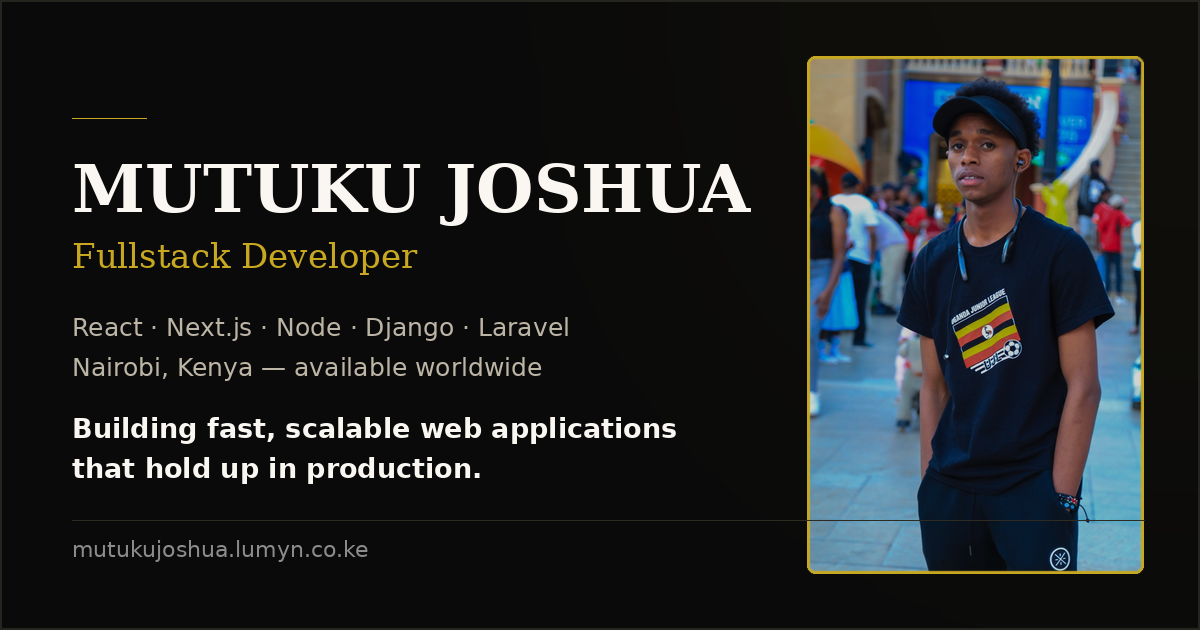
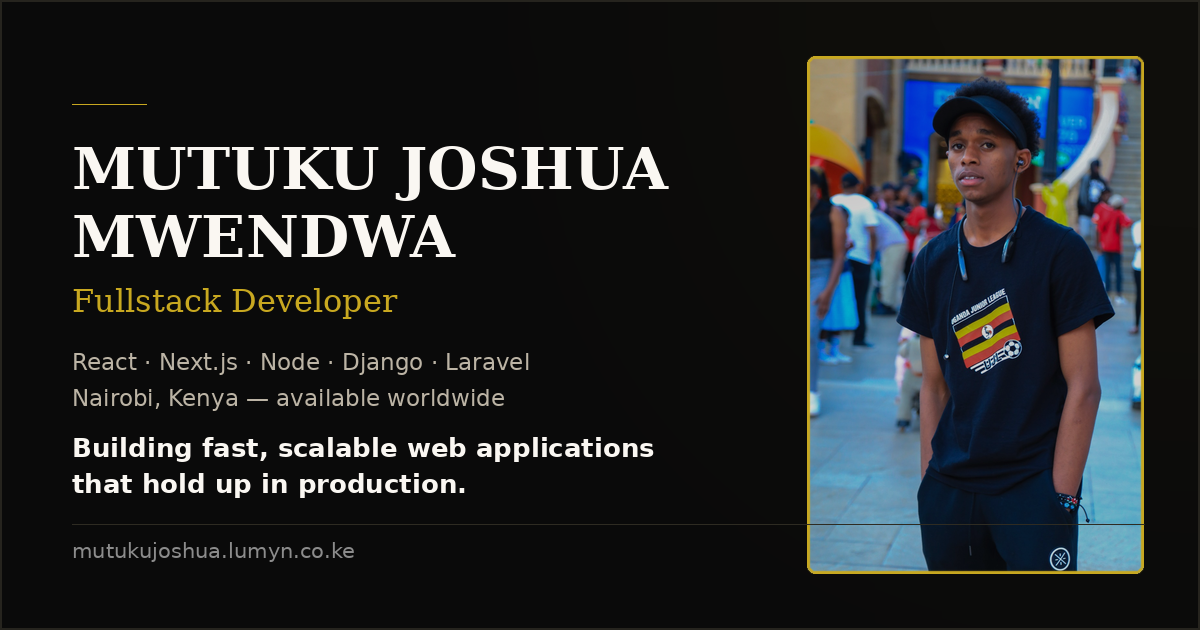
CONSOLIDATE OWNER NAME TO "MUTUKU JOSHUA MWENDWA"
Google had the identity split across two names: the site presented
"Mutuku Joshua" while LinkedIn, GitHub and the resume headline all
said "Joshua Mwendwa". That split makes it impossible for Google to
treat the profiles as one entity, so none of the authority
accumulates on either spelling.

Use the full name everywhere so both previous spellings match:
- SITE_NAME and PERSON.name in lib/site-config.ts, which drive the
  title template, og:siteName and the Person schema
- All page titles and descriptions
- Both hero headings, footer, /about and /resume body copy, alt
  text, and the legal pages
- keywords arrays, now also carrying "Joshua Mwendwa" and
  "Mutuku Joshua" as secondary variants
- The five transactional email templates

The homepage hardcoded its title string in four places, which is
how the two names drifted apart; it now reads DEFAULT_TITLE.

Regenerate the OG image so the card carries the full name.

Changed region(s): [[0.0617, 0.2111, 0.6167, 0.7841], [0.0617, 0.8143, 0.925, 0.9048]]

diff --git a/app/api/contact/route.ts b/app/api/contact/route.ts
@@ -98,7 +98,7 @@ export async function POST(request: NextRequest) {
     const emailHtml = `
       <div style="font-family: Arial, sans-serif; max-width: 600px; margin: 0 auto; background: #0a0a0a; border: 0.5px solid rgba(184, 150, 12, 0.2);">
         <div style="background: #0f0f0f; border-bottom: 0.5px solid rgba(184, 150, 12, 0.2); padding: 2rem; text-align: center;">
-          <div style="font-family: 'Cormorant Garamond', serif; font-size: 1.75rem; font-weight: 400; color: #c8a820; letter-spacing: 0.1em; margin-bottom: 0.5rem;">MUTUKU JOSHUA</div>
+          <div style="font-family: 'Cormorant Garamond', serif; font-size: 1.75rem; font-weight: 400; color: #c8a820; letter-spacing: 0.1em; margin-bottom: 0.5rem;">MUTUKU JOSHUA MWENDWA</div>
           <div style="font-size: 0.75rem; color: rgba(240, 232, 212, 0.5); letter-spacing: 0.15em; text-transform: uppercase;">Fullstack Developer</div>
         </div>
 
@@ -161,7 +161,7 @@ export async function POST(request: NextRequest) {
         </div>
 
         <div style="background: #0f0f0f; border-top: 0.5px solid rgba(184, 150, 12, 0.2); padding: 1.5rem; text-align: center;">
-          <div style="font-family: 'Cormorant Garamond', serif; font-size: 1.125rem; font-weight: 400; color: #c8a820; letter-spacing: 0.1em; margin-bottom: 0.25rem;">Mutuku Joshua</div>
+          <div style="font-family: 'Cormorant Garamond', serif; font-size: 1.125rem; font-weight: 400; color: #c8a820; letter-spacing: 0.1em; margin-bottom: 0.25rem;">Mutuku Joshua Mwendwa</div>
           <div style="color: rgba(240, 232, 212, 0.4); font-size: 0.75rem; letter-spacing: 0.1em; text-transform: uppercase;">Professional Fullstack Development Services · Nairobi, Kenya</div>
         </div>
       </div>
@@ -178,7 +178,7 @@ export async function POST(request: NextRequest) {
     const confirmationHtml = `
       <div style="font-family: Arial, sans-serif; max-width: 600px; margin: 0 auto; background: #0a0a0a; border: 0.5px solid rgba(184, 150, 12, 0.2);">
         <div style="background: #0f0f0f; border-bottom: 0.5px solid rgba(184, 150, 12, 0.2); padding: 2rem; text-align: center;">
-          <div style="font-family: 'Cormorant Garamond', serif; font-size: 1.75rem; font-weight: 400; color: #c8a820; letter-spacing: 0.1em; margin-bottom: 0.5rem;">MUTUKU JOSHUA</div>
+          <div style="font-family: 'Cormorant Garamond', serif; font-size: 1.75rem; font-weight: 400; color: #c8a820; letter-spacing: 0.1em; margin-bottom: 0.5rem;">MUTUKU JOSHUA MWENDWA</div>
           <div style="font-size: 0.75rem; color: rgba(240, 232, 212, 0.5); letter-spacing: 0.15em; text-transform: uppercase; margin-bottom: 1rem;">Fullstack Developer</div>
           <div style="font-size: 0.875rem; color: #5dcaa5; letter-spacing: 0.05em;">✓ Contact Request Received</div>
         </div>
@@ -213,14 +213,14 @@ export async function POST(request: NextRequest) {
             
             <p style="color: rgba(240, 232, 212, 0.7); font-size: 0.9375rem; line-height: 1.7; margin: 1.5rem 0 0 0;">
               Best regards,<br>
-              <strong style="color: #faf7f2;">Mutuku Joshua</strong><br>
+              <strong style="color: #faf7f2;">Mutuku Joshua Mwendwa</strong><br>
               <span style="color: rgba(240, 232, 212, 0.4); font-size: 0.8125rem;">Fullstack Developer</span>
             </p>
           </div>
         </div>
         
         <div style="background: #0f0f0f; border-top: 0.5px solid rgba(184, 150, 12, 0.2); padding: 1.5rem; text-align: center;">
-          <div style="font-family: 'Cormorant Garamond', serif; font-size: 1.125rem; font-weight: 400; color: #c8a820; letter-spacing: 0.1em; margin-bottom: 0.5rem;">Mutuku Joshua</div>
+          <div style="font-family: 'Cormorant Garamond', serif; font-size: 1.125rem; font-weight: 400; color: #c8a820; letter-spacing: 0.1em; margin-bottom: 0.5rem;">Mutuku Joshua Mwendwa</div>
           <div style="color: rgba(240, 232, 212, 0.4); font-size: 0.75rem; letter-spacing: 0.05em;">📧 officialjoshua@lumyn.co.ke · 📞 +254 794 773 452 · 📍 Nairobi, Kenya</div>
         </div>
       </div>
@@ -229,7 +229,7 @@ export async function POST(request: NextRequest) {
     await transporter.sendMail({
       from: process.env.SMTP_FROM || process.env.SMTP_USER,
       to: email,
-      subject: "Thank you for contacting Mutuku Joshua - Fullstack Developer",
+      subject: "Thank you for contacting Mutuku Joshua Mwendwa - Fullstack Developer",
       html: confirmationHtml,
     })
 

diff --git a/app/terms-of-use/page.tsx b/app/terms-of-use/page.tsx
@@ -3,7 +3,7 @@ import { OG_IMAGE, SITE_NAME, SITE_URL } from "@/lib/site-config"
 
 export const metadata: Metadata = {
   title: "Terms of Use",
-  description: "Terms of Use for Mutuku Joshua portfolio website and development services.",
+  description: "Terms of Use for Mutuku Joshua Mwendwa portfolio website and development services.",
   alternates: { canonical: "/terms-of-use" },
   openGraph: {
     type: "website",
@@ -11,7 +11,7 @@ export const metadata: Metadata = {
     siteName: SITE_NAME,
     title: `Terms of Use | ${SITE_NAME}`,
     description:
-      "Terms of Use for Mutuku Joshua portfolio website and development services.",
+      "Terms of Use for Mutuku Joshua Mwendwa portfolio website and development services.",
     images: [
       {
         url: OG_IMAGE.url,
@@ -38,7 +38,7 @@ export default function TermsOfUsePage() {
             <section className="mb-8">
               <h2 className="text-2xl font-semibold text-gray-900 mb-4">1. Acceptance of Terms</h2>
               <p className="text-gray-700 mb-4">
-                By accessing and using Mutuku Joshua&apos;s portfolio website ("Website"), you accept and agree to be bound
+                By accessing and using Mutuku Joshua Mwendwa&apos;s portfolio website ("Website"), you accept and agree to be bound
                 by these terms and conditions. If you do not agree to abide by these terms, please do not use this website.
               </p>
             </section>
@@ -118,7 +118,7 @@ export default function TermsOfUsePage() {
               <h2 className="text-2xl font-semibold text-gray-900 mb-4">7. Intellectual Property</h2>
               <p className="text-gray-700 mb-4">
                 All content on this website, including code snippets, designs, graphics, project demonstrations,
-                and written content, are the intellectual property of Mutuku Joshua unless otherwise stated.
+                and written content, are the intellectual property of Mutuku Joshua Mwendwa unless otherwise stated.
               </p>
               <p className="text-gray-700 mb-4">
                 Portfolio projects may include work done for clients. Any client-specific code or information is 
@@ -130,7 +130,7 @@ export default function TermsOfUsePage() {
             <section className="mb-8">
               <h2 className="text-2xl font-semibold text-gray-900 mb-4">8. Limitation of Liability</h2>
               <p className="text-gray-700 mb-4">
-                In no event shall Mutuku Joshua be liable for any damages (including, without limitation, damages
+                In no event shall Mutuku Joshua Mwendwa be liable for any damages (including, without limitation, damages
                 for loss of data, profit, or business interruption) arising out of the use or inability to use
                 the materials on this website or related to any services showcased here.
               </p>
@@ -183,7 +183,7 @@ export default function TermsOfUsePage() {
               </p>
               <div className="bg-gray-50 p-4 rounded-lg">
                 <p className="text-gray-700">
-                  <strong>Mutuku Joshua</strong>
+                  <strong>Mutuku Joshua Mwendwa</strong>
                 </p>
                 <p className="text-gray-700">Email: officialjoshua@lumyn.co.ke</p>
                 <p className="text-gray-700">Phone: +254 794 773 452</p>

diff --git a/app/api/newsletter/route.ts b/app/api/newsletter/route.ts
@@ -53,7 +53,7 @@ export async function POST(request: NextRequest) {
     const confirmationHtml = `
       <div style="font-family: Arial, sans-serif; max-width: 600px; margin: 0 auto; background: #0a0a0a; border: 0.5px solid rgba(184, 150, 12, 0.2);">
         <div style="background: #0f0f0f; border-bottom: 0.5px solid rgba(184, 150, 12, 0.2); padding: 2rem; text-align: center;">
-          <div style="font-family: 'Cormorant Garamond', serif; font-size: 1.75rem; font-weight: 400; color: #c8a820; letter-spacing: 0.1em; margin-bottom: 0.5rem;">MUTUKU JOSHUA</div>
+          <div style="font-family: 'Cormorant Garamond', serif; font-size: 1.75rem; font-weight: 400; color: #c8a820; letter-spacing: 0.1em; margin-bottom: 0.5rem;">MUTUKU JOSHUA MWENDWA</div>
           <div style="font-size: 0.75rem; color: rgba(240, 232, 212, 0.5); letter-spacing: 0.15em; text-transform: uppercase; margin-bottom: 1rem;">Fullstack Developer</div>
           <div style="font-size: 0.875rem; color: #5dcaa5; letter-spacing: 0.05em;">✓ Welcome to the Newsletter</div>
         </div>
@@ -84,7 +84,7 @@ export async function POST(request: NextRequest) {
         </div>
         
         <div style="background: #0f0f0f; border-top: 0.5px solid rgba(184, 150, 12, 0.2); padding: 1.5rem; text-align: center;">
-          <div style="font-family: 'Cormorant Garamond', serif; font-size: 1.125rem; font-weight: 400; color: #c8a820; letter-spacing: 0.1em; margin-bottom: 0.5rem;">Mutuku Joshua</div>
+          <div style="font-family: 'Cormorant Garamond', serif; font-size: 1.125rem; font-weight: 400; color: #c8a820; letter-spacing: 0.1em; margin-bottom: 0.5rem;">Mutuku Joshua Mwendwa</div>
           <div style="color: rgba(240, 232, 212, 0.4); font-size: 0.75rem; letter-spacing: 0.05em;">📧 officialjoshua@lumyn.co.ke · 📞 +254 794 773 452 · 📍 Nairobi, Kenya</div>
         </div>
       </div>
@@ -93,7 +93,7 @@ export async function POST(request: NextRequest) {
     await transporter.sendMail({
       from: process.env.SMTP_FROM || process.env.SMTP_USER,
       to: email,
-      subject: "Welcome to Mutuku Joshua's Newsletter",
+      subject: "Welcome to Mutuku Joshua Mwendwa's Newsletter",
       html: confirmationHtml,
     })
 

diff --git a/app/privacy-policy/page.tsx b/app/privacy-policy/page.tsx
@@ -3,7 +3,7 @@ import { OG_IMAGE, SITE_NAME, SITE_URL } from "@/lib/site-config"
 
 export const metadata: Metadata = {
   title: "Privacy Policy",
-  description: "Privacy Policy for Mutuku Joshua - How I collect, use, and protect your personal information.",
+  description: "Privacy Policy for Mutuku Joshua Mwendwa - How I collect, use, and protect your personal information.",
   alternates: { canonical: "/privacy-policy" },
   openGraph: {
     type: "website",
@@ -11,7 +11,7 @@ export const metadata: Metadata = {
     siteName: SITE_NAME,
     title: `Privacy Policy | ${SITE_NAME}`,
     description:
-      "Privacy Policy for Mutuku Joshua - How I collect, use, and protect your personal information.",
+      "Privacy Policy for Mutuku Joshua Mwendwa - How I collect, use, and protect your personal information.",
     images: [
       {
         url: OG_IMAGE.url,
@@ -38,7 +38,7 @@ export default function PrivacyPolicyPage() {
             <section className="mb-8">
               <h2 className="text-2xl font-semibold text-gray-900 mb-4">1. Introduction</h2>
               <p className="text-gray-700 mb-4">
-                Mutuku Joshua ("I," "my," or "me") is committed to protecting your privacy. This Privacy
+                Mutuku Joshua Mwendwa ("I," "my," or "me") is committed to protecting your privacy. This Privacy
                 Policy explains how I collect, use, disclose, and safeguard your information when you visit my portfolio
                 website or use my development services.
               </p>
@@ -154,7 +154,7 @@ export default function PrivacyPolicyPage() {
               </p>
               <div className="bg-gray-50 p-4 rounded-lg">
                 <p className="text-gray-700">
-                  <strong>Mutuku Joshua</strong>
+                  <strong>Mutuku Joshua Mwendwa</strong>
                 </p>
                 <p className="text-gray-700">Email: officialjoshua@lumyn.co.ke</p>
                 <p className="text-gray-700">Phone: +254 794 773 452</p>

diff --git a/app/api/admin/blog/[id]/route.ts b/app/api/admin/blog/[id]/route.ts
@@ -29,7 +29,7 @@ async function sendBlogNotification(post: { title: string; slug: string; summary
   const html = `
     <div style="font-family: Arial, sans-serif; max-width: 600px; margin: 0 auto; background: #0a0a0a; border: 0.5px solid rgba(184, 150, 12, 0.2);">
       <div style="background: #0f0f0f; border-bottom: 0.5px solid rgba(184, 150, 12, 0.2); padding: 2rem; text-align: center;">
-        <div style="font-family: 'Cormorant Garamond', serif; font-size: 1.75rem; font-weight: 400; color: #c8a820; letter-spacing: 0.1em; margin-bottom: 0.5rem;">MUTUKU JOSHUA</div>
+        <div style="font-family: 'Cormorant Garamond', serif; font-size: 1.75rem; font-weight: 400; color: #c8a820; letter-spacing: 0.1em; margin-bottom: 0.5rem;">MUTUKU JOSHUA MWENDWA</div>
         <div style="font-size: 0.75rem; color: rgba(240, 232, 212, 0.5); letter-spacing: 0.15em; text-transform: uppercase; margin-bottom: 1rem;">Fullstack Developer</div>
         <div style="font-size: 0.875rem; color: #5dcaa5; letter-spacing: 0.05em;">📝 New Blog Post Published</div>
       </div>
@@ -55,7 +55,7 @@ async function sendBlogNotification(post: { title: string; slug: string; summary
       </div>
       
       <div style="background: #0f0f0f; border-top: 0.5px solid rgba(184, 150, 12, 0.2); padding: 1.5rem; text-align: center;">
-        <div style="font-family: 'Cormorant Garamond', serif; font-size: 1.125rem; font-weight: 400; color: #c8a820; letter-spacing: 0.1em; margin-bottom: 0.5rem;">Mutuku Joshua</div>
+        <div style="font-family: 'Cormorant Garamond', serif; font-size: 1.125rem; font-weight: 400; color: #c8a820; letter-spacing: 0.1em; margin-bottom: 0.5rem;">Mutuku Joshua Mwendwa</div>
         <div style="color: rgba(240, 232, 212, 0.4); font-size: 0.75rem; letter-spacing: 0.05em;">
           📧 officialjoshua@lumyn.co.ke · 📞 +254 794 773 452 · 📍 Nairobi, Kenya
         </div>

diff --git a/app/api/admin/blog/route.ts b/app/api/admin/blog/route.ts
@@ -29,7 +29,7 @@ async function sendBlogNotification(post: { title: string; slug: string; summary
   const html = `
     <div style="font-family: Arial, sans-serif; max-width: 600px; margin: 0 auto; background: #0a0a0a; border: 0.5px solid rgba(184, 150, 12, 0.2);">
       <div style="background: #0f0f0f; border-bottom: 0.5px solid rgba(184, 150, 12, 0.2); padding: 2rem; text-align: center;">
-        <div style="font-family: 'Cormorant Garamond', serif; font-size: 1.75rem; font-weight: 400; color: #c8a820; letter-spacing: 0.1em; margin-bottom: 0.5rem;">MUTUKU JOSHUA</div>
+        <div style="font-family: 'Cormorant Garamond', serif; font-size: 1.75rem; font-weight: 400; color: #c8a820; letter-spacing: 0.1em; margin-bottom: 0.5rem;">MUTUKU JOSHUA MWENDWA</div>
         <div style="font-size: 0.75rem; color: rgba(240, 232, 212, 0.5); letter-spacing: 0.15em; text-transform: uppercase; margin-bottom: 1rem;">Fullstack Developer</div>
         <div style="font-size: 0.875rem; color: #5dcaa5; letter-spacing: 0.05em;">📝 New Blog Post Published</div>
       </div>
@@ -55,7 +55,7 @@ async function sendBlogNotification(post: { title: string; slug: string; summary
       </div>
       
       <div style="background: #0f0f0f; border-top: 0.5px solid rgba(184, 150, 12, 0.2); padding: 1.5rem; text-align: center;">
-        <div style="font-family: 'Cormorant Garamond', serif; font-size: 1.125rem; font-weight: 400; color: #c8a820; letter-spacing: 0.1em; margin-bottom: 0.5rem;">Mutuku Joshua</div>
+        <div style="font-family: 'Cormorant Garamond', serif; font-size: 1.125rem; font-weight: 400; color: #c8a820; letter-spacing: 0.1em; margin-bottom: 0.5rem;">Mutuku Joshua Mwendwa</div>
         <div style="color: rgba(240, 232, 212, 0.4); font-size: 0.75rem; letter-spacing: 0.05em;">
           📧 officialjoshua@lumyn.co.ke · 📞 +254 794 773 452 · 📍 Nairobi, Kenya
         </div>

diff --git a/app/api/admin/newsletter/route.ts b/app/api/admin/newsletter/route.ts
@@ -28,7 +28,7 @@ async function sendBlogNotification(post: { title: string; slug: string; summary
   const html = `
     <div style="font-family: Arial, sans-serif; max-width: 600px; margin: 0 auto; background: #0a0a0a; border: 0.5px solid rgba(184, 150, 12, 0.2);">
       <div style="background: #0f0f0f; border-bottom: 0.5px solid rgba(184, 150, 12, 0.2); padding: 2rem; text-align: center;">
-        <div style="font-family: 'Cormorant Garamond', serif; font-size: 1.75rem; font-weight: 400; color: #c8a820; letter-spacing: 0.1em; margin-bottom: 0.5rem;">MUTUKU JOSHUA</div>
+        <div style="font-family: 'Cormorant Garamond', serif; font-size: 1.75rem; font-weight: 400; color: #c8a820; letter-spacing: 0.1em; margin-bottom: 0.5rem;">MUTUKU JOSHUA MWENDWA</div>
         <div style="font-size: 0.75rem; color: rgba(240, 232, 212, 0.5); letter-spacing: 0.15em; text-transform: uppercase; margin-bottom: 1rem;">Fullstack Developer</div>
         <div style="font-size: 0.875rem; color: #5dcaa5; letter-spacing: 0.05em;">📝 New Blog Post Published</div>
       </div>
@@ -54,7 +54,7 @@ async function sendBlogNotification(post: { title: string; slug: string; summary
       </div>
       
       <div style="background: #0f0f0f; border-top: 0.5px solid rgba(184, 150, 12, 0.2); padding: 1.5rem; text-align: center;">
-        <div style="font-family: 'Cormorant Garamond', serif; font-size: 1.125rem; font-weight: 400; color: #c8a820; letter-spacing: 0.1em; margin-bottom: 0.5rem;">Mutuku Joshua</div>
+        <div style="font-family: 'Cormorant Garamond', serif; font-size: 1.125rem; font-weight: 400; color: #c8a820; letter-spacing: 0.1em; margin-bottom: 0.5rem;">Mutuku Joshua Mwendwa</div>
         <div style="color: rgba(240, 232, 212, 0.4); font-size: 0.75rem; letter-spacing: 0.05em;">
           📧 officialjoshua@lumyn.co.ke · 📞 +254 794 773 452 · 📍 Nairobi, Kenya
         </div>

diff --git a/app/(public)/about/page.tsx b/app/(public)/about/page.tsx
@@ -9,7 +9,7 @@ import styles from "./about.module.css"
 
 const TITLE = "About"
 const DESCRIPTION =
-  "Meet Mutuku Joshua, a fullstack developer in Nairobi, Kenya who builds fast, scalable web applications with React, Next.js, Node.js, Django and PostgreSQL. Founder of Lumyn Technologies."
+  "Meet Mutuku Joshua Mwendwa, a fullstack developer in Nairobi, Kenya who builds fast, scalable web applications with React, Next.js, Node.js, Django and PostgreSQL. Founder of Lumyn Technologies."
 
 export const metadata: Metadata = {
   title: TITLE,
@@ -163,14 +163,14 @@ export default async function AboutPage() {
           <div className={styles.heroAvatar}>
             <Image
               src="/jm.png"
-              alt="Mutuku Joshua - Fullstack Developer"
+              alt="Mutuku Joshua Mwendwa - Fullstack Developer"
               fill
               className={styles.heroAvatarImg}
               priority
             />
             <div className={styles.heroAvBadge}>AVAILABLE</div>
           </div>
-          <div className={styles.heroName}>MUTUKU JOSHUA</div>
+          <div className={styles.heroName}>MUTUKU JOSHUA MWENDWA</div>
           <div className={styles.heroLoc}>NAIROBI, KENYA</div>
         </div>
       </section>
@@ -181,7 +181,7 @@ export default async function AboutPage() {
           <div className={styles.secEyebrow}>ABOUT ME</div>
           <div className={styles.secTitle}>Dev who designs. Designer who ships.</div>
           <p className={styles.aboutP}>
-            I&apos;m Joshua Mwendwa — a full-stack developer and UI/UX designer based in Nairobi, Kenya.
+            I&apos;m Mutuku Joshua Mwendwa — a full-stack developer and UI/UX designer based in Nairobi, Kenya.
             I build digital products that are fast, beautiful, and actually useful.
           </p>
           <p className={styles.aboutP}>

diff --git a/app/(public)/page.tsx b/app/(public)/page.tsx
@@ -2,7 +2,12 @@ import type { Metadata } from "next"
 import { prisma } from "@/lib/prisma"
 import JsonLd from "@/components/JsonLd"
 import { breadcrumbSchema, webPageSchema } from "@/lib/schema"
-import { DEFAULT_DESCRIPTION, OG_IMAGE, SITE_URL } from "@/lib/site-config"
+import {
+  DEFAULT_DESCRIPTION,
+  DEFAULT_TITLE,
+  OG_IMAGE,
+  SITE_URL,
+} from "@/lib/site-config"
 import HomeClient, {
   type BlogPost,
   type NewsItem,
@@ -13,8 +18,7 @@ export const revalidate = 300
 
 export const metadata: Metadata = {
   title: {
-    absolute:
-      "Mutuku Joshua | Fullstack Developer in Nairobi, Kenya",
+    absolute: DEFAULT_TITLE,
   },
   description: DEFAULT_DESCRIPTION,
   alternates: {
@@ -23,7 +27,7 @@ export const metadata: Metadata = {
   openGraph: {
     type: "website",
     url: SITE_URL,
-    title: "Mutuku Joshua | Fullstack Developer in Nairobi, Kenya",
+    title: DEFAULT_TITLE,
     description: DEFAULT_DESCRIPTION,
     images: [
       {
@@ -36,7 +40,7 @@ export const metadata: Metadata = {
   },
   twitter: {
     card: "summary_large_image",
-    title: "Mutuku Joshua | Fullstack Developer in Nairobi, Kenya",
+    title: DEFAULT_TITLE,
     description: DEFAULT_DESCRIPTION,
     images: [OG_IMAGE.url],
   },
@@ -83,7 +87,7 @@ export default async function HomePage() {
       <JsonLd
         data={[
           webPageSchema(
-            "Mutuku Joshua | Fullstack Developer in Nairobi, Kenya",
+            DEFAULT_TITLE,
             "/",
             DEFAULT_DESCRIPTION,
           ),

diff --git a/app/(public)/HomeClient.tsx b/app/(public)/HomeClient.tsx
@@ -182,7 +182,7 @@ export default function HomeClient({
             transition={{ duration: 1, ease: [0.16, 1, 0.3, 1] }}
           >
             <span className="sr-only">
-              Mutuku Joshua is a fullstack developer in Nairobi, Kenya, building fast and
+              Mutuku Joshua Mwendwa is a fullstack developer in Nairobi, Kenya, building fast and
               scalable web applications with React, Next.js, Node.js, Django and Laravel.
             </span>
             I build things<br />that <em>work</em><br />and look good.
@@ -233,12 +233,12 @@ export default function HomeClient({
             <div className={styles.heroAv}>
               <img
                 src="/Mutuku.JPG"
-                alt="Mutuku Joshua"
+                alt="Mutuku Joshua Mwendwa"
                 style={{ width: "100%", height: "100%", objectFit: "cover" }}
               />
               <div className={styles.heroAvBadge}>AVAILABLE</div>
             </div>
-            <div style={{ fontSize: 11, color: "var(--cream4)", marginTop: 16, letterSpacing: "1.5px" }}>MUTUKU JOSHUA</div>
+            <div style={{ fontSize: 11, color: "var(--cream4)", marginTop: 16, letterSpacing: "1.5px" }}>MUTUKU JOSHUA MWENDWA</div>
             <div style={{ fontSize: 11, color: "var(--primary)", marginTop: 4, letterSpacing: "1px" }}>NAIROBI, KENYA</div>
           </div>
         </div>

diff --git a/lib/site-config.ts b/lib/site-config.ts
@@ -2,26 +2,27 @@ export const SITE_URL = "https://mutukujoshua.lumyn.co.ke"
 
 export const BRAND_URL = "https://www.lumyn.co.ke"
 
-export const SITE_NAME = "Mutuku Joshua"
+export const SITE_NAME = "Mutuku Joshua Mwendwa"
 
 export const SITE_TAGLINE = "Fullstack Developer"
 
 export const BRAND_NAME = "Lumyn Technologies"
 
-export const DEFAULT_TITLE = "Mutuku Joshua | Fullstack Developer in Nairobi, Kenya"
+export const DEFAULT_TITLE =
+  "Mutuku Joshua Mwendwa | Fullstack Developer in Nairobi, Kenya"
 
 export const DEFAULT_DESCRIPTION =
-  "Mutuku Joshua is a fullstack developer in Nairobi, Kenya, building fast, scalable web applications with React, Next.js, Node.js, Django, and PostgreSQL. Founder of Lumyn Technologies. Available for hire."
+  "Mutuku Joshua Mwendwa is a fullstack developer in Nairobi, Kenya, building fast, scalable web applications with React, Next.js, Node.js, Django, and PostgreSQL. Founder of Lumyn Technologies. Available for hire."
 
 export const OG_IMAGE = {
   url: "/og-image.png",
   width: 1200,
   height: 630,
-  alt: "Mutuku Joshua - Fullstack Developer in Nairobi, Kenya",
+  alt: "Mutuku Joshua Mwendwa - Fullstack Developer in Nairobi, Kenya",
 }
 
 export const PERSON = {
-  name: "Mutuku Joshua",
+  name: "Mutuku Joshua Mwendwa",
   jobTitle: "Fullstack Developer",
   email: "officialjoshua@lumyn.co.ke",
   phone: "+254794773452",

diff --git a/components/Footer.tsx b/components/Footer.tsx
@@ -8,7 +8,7 @@ export default function Footer() {
         <div className={styles.footerGrid}>
           {/* Brand Section */}
           <div className={styles.footerSection}>
-            <h3 className={styles.footerTitle}>Mutuku Joshua</h3>
+            <h3 className={styles.footerTitle}>Mutuku Joshua Mwendwa</h3>
             <p className={styles.footerText}>Fullstack Developer</p>
             <p className={styles.footerDesc}>
               Crafting Code That Works. Building scalable web applications and digital solutions with modern technologies.
@@ -92,7 +92,7 @@ export default function Footer() {
           <p className={styles.managedBy}>
             System managed by <a href="https://www.lumyn.co.ke/" target="_blank" rel="noopener noreferrer" className={styles.managedLink}>Lumyn Technologies</a>
           </p>
-          <p className={styles.copyright}>© 2025 Mutuku Joshua. All rights reserved.</p>
+          <p className={styles.copyright}>© 2025 Mutuku Joshua Mwendwa. All rights reserved.</p>
           <div className={styles.footerLegal}>
             <Link href="/privacy-policy" className={styles.legalLink}>Privacy Policy</Link>
             <span className={styles.legalDivider}>·</span>
